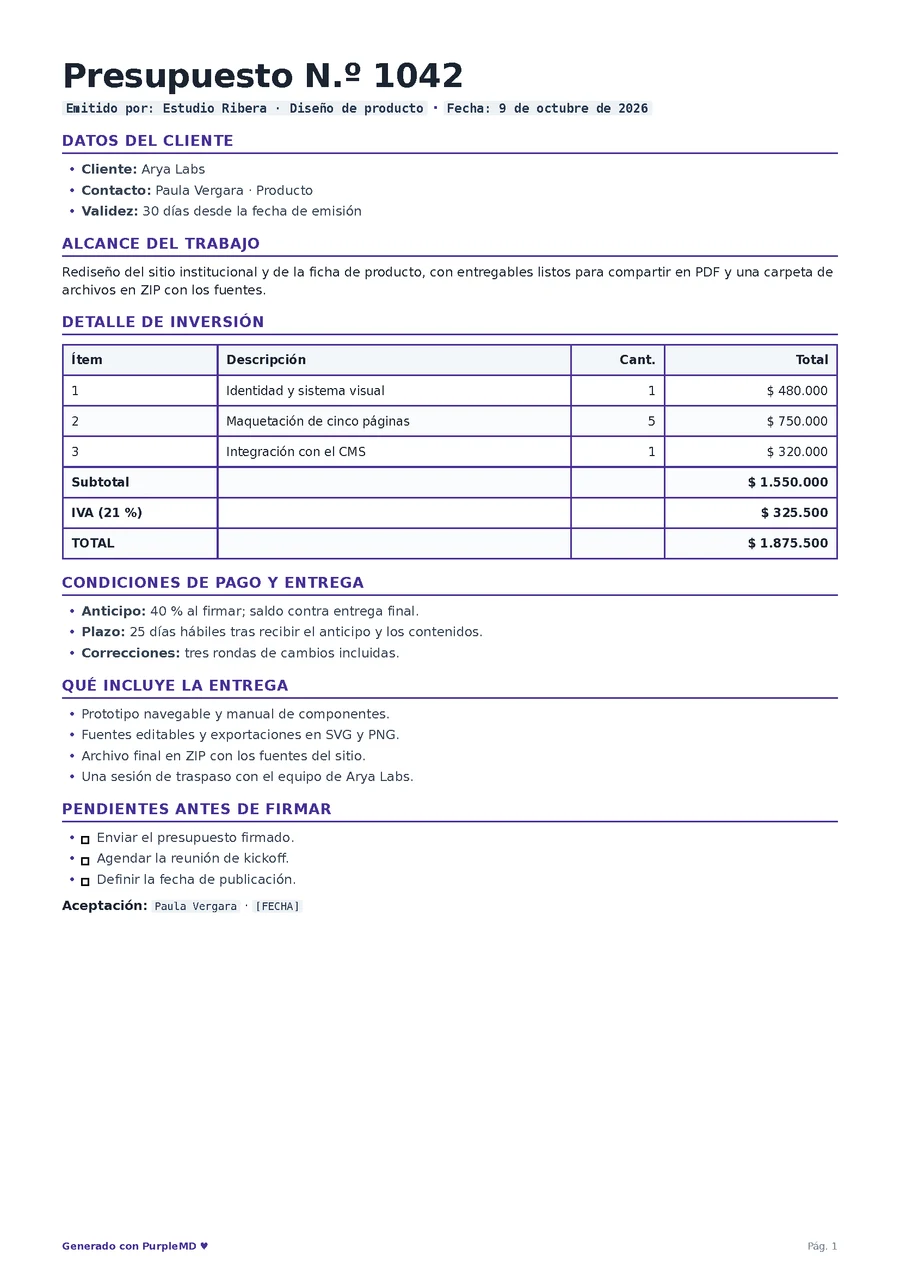
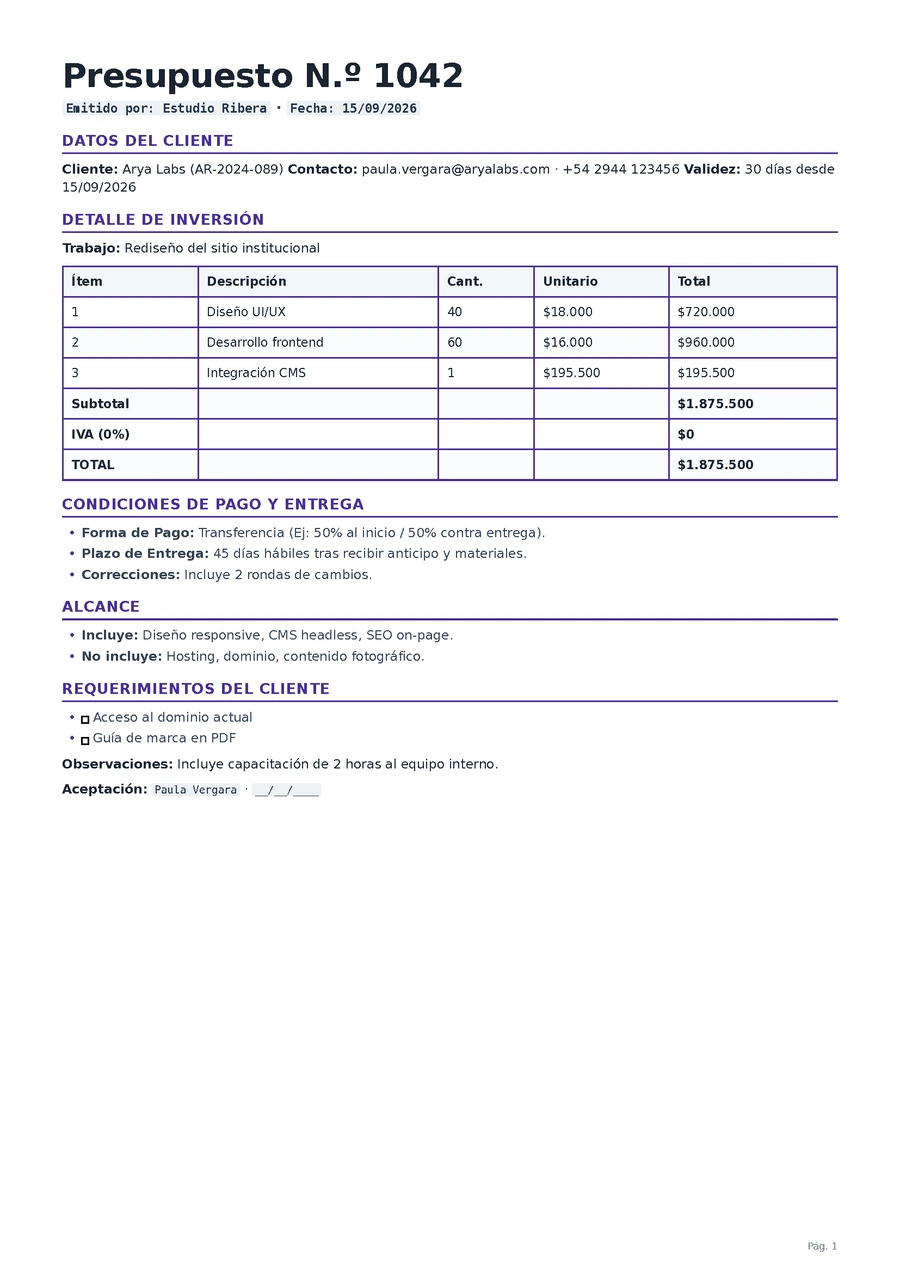
feat: agregar sección Enterprise y actualizar captura del PDF
- Agregar sección Enterprise/Empresas con CTA de contacto
- Eliminar CTA '¿Necesitás un PDF con un diseño particular?'
- Actualizar presupuesto-1042.webp sin marca de agua

diff --git a/index.html b/index.html
@@ -329,11 +329,26 @@
                 <li><span class="archivo-icono" aria-hidden="true"></span>presupuestos/1042-aria-labs.md</li>
               </ul>
             </div>
+          </div>
+        </div>
+      </div>
+    </section>
 
-            <p class="detalle-cta">
-              ¿Necesitás un PDF con un diseño particular?
-              <a class="enlace" href="https://github.com/ltrecanao/purplemd/issues" target="_blank" rel="noopener noreferrer">Hablemos<span class="sr-only"> (se abre en una pestaña nueva)</span></a>.
+    <!-- ======================================================== ENTERPRISE / EMPRESAS -->
+    <section class="seccion seccion-enterprise" id="empresas" aria-labelledby="empresas-titulo">
+      <div class="container">
+        <div class="enterprise-caja">
+          <div class="enterprise-texto">
+            <p class="etiqueta">Soporte y Empresas</p>
+            <h2 class="titulo-seccion-chico" id="empresas-titulo">¿Necesitás Purple para tu equipo o empresa?</h2>
+            <p class="bajada">
+              PurpleMD es de uso libre y gratuito para particulares. Para organizaciones y negocios que requieren soporte dedicado, integraciones a medida o ajustes específicos, ofrecemos planes Enterprise.
             </p>
+          </div>
+          <div class="enterprise-accion">
+            <a class="btn btn-primario btn-grande" href="mailto:purple.empresas@proton.me?subject=Consulta%20Enterprise%20-%20Purple">
+              Contactar por Empresas
+            </a>
           </div>
         </div>
       </div>

diff --git a/static/css/style.css b/static/css/style.css
@@ -904,9 +904,31 @@ figcaption {
   background: currentColor;
 }
 
-.detalle-cta {
+/* ------------------------------------------------------------ enterprise */
+
+.seccion-enterprise {
+  background: var(--fondo-suave);
+}
+
+.enterprise-caja {
+  display: grid;
+  grid-template-columns: minmax(0, 1fr) auto;
+  align-items: center;
+  gap: clamp(2rem, 5vw, 4rem);
+  margin-top: clamp(1.5rem, 3vw, 2.5rem);
+}
+
+.titulo-seccion-chico {
   color: var(--tinta);
-  font-size: 0.98rem;
+  font-size: clamp(1.5rem, 1.1rem + 1.6vw, 2rem);
+  font-weight: 620;
+  line-height: 1.2;
+  letter-spacing: -0.02em;
+  text-wrap: balance;
+}
+
+.enterprise-accion {
+  flex-shrink: 0;
 }
 
 /* --------------------------------------------------------------- principios */
@@ -1029,6 +1051,19 @@ figcaption {
 
   .exportar-cuerpo {
     grid-template-columns: minmax(0, 20rem);
+  }
+
+  .enterprise-caja {
+    grid-template-columns: 1fr;
+    text-align: center;
+  }
+
+  .enterprise-accion {
+    width: 100%;
+  }
+
+  .enterprise-accion .btn {
+    width: 100%;
   }
 
   .footer-inner {
